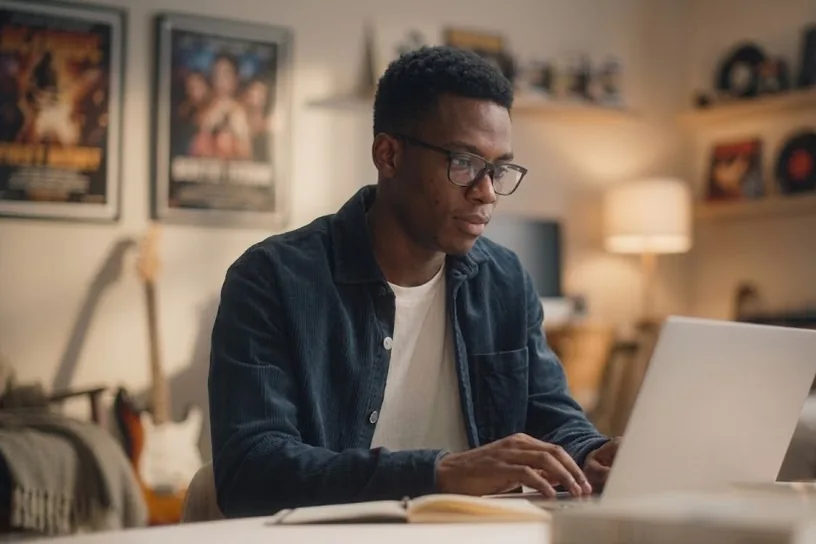
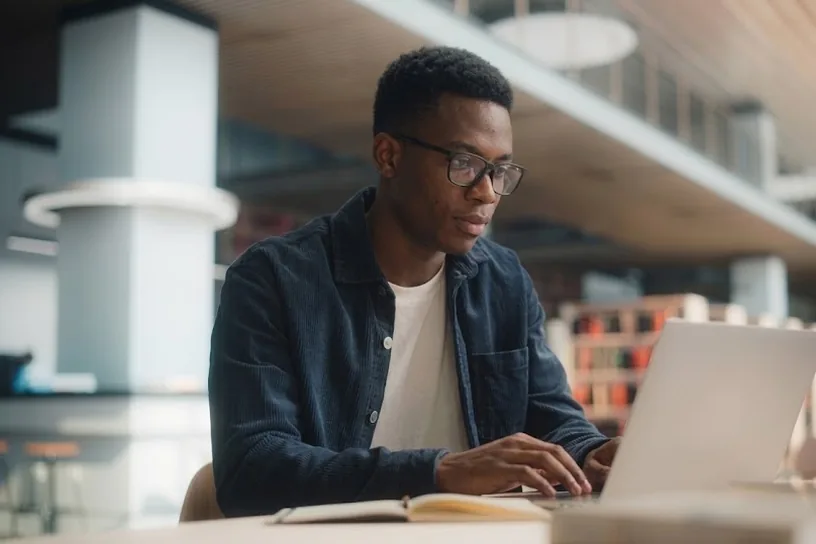
Swap hero-rot-4 photo again + bump cache-buster to v=4
Claude-Session: https://claude.ai/code/session_01MJtDMFGG4fYHVUGu2EoHsB

diff --git a/index.html b/index.html
@@ -1013,8 +1013,8 @@ html{scrollbar-gutter:stable;}
            data-srcset="hero-rot-3.webp?v=2 816w, hero-rot-3-2x.webp?v=2 1632w"
            sizes="(max-width:900px) 92vw, 60vw"
            width="816" height="544" alt="">
-      <img class="hero-photo" data-src="hero-rot-4.webp?v=3"
-           data-srcset="hero-rot-4.webp?v=3 816w, hero-rot-4-2x.webp?v=3 1632w"
+      <img class="hero-photo" data-src="hero-rot-4.webp?v=4"
+           data-srcset="hero-rot-4.webp?v=4 816w, hero-rot-4-2x.webp?v=4 1632w"
            sizes="(max-width:900px) 92vw, 60vw"
            width="816" height="544" alt="">
       <img class="hero-photo" data-src="hero-rot-5.webp?v=2"
